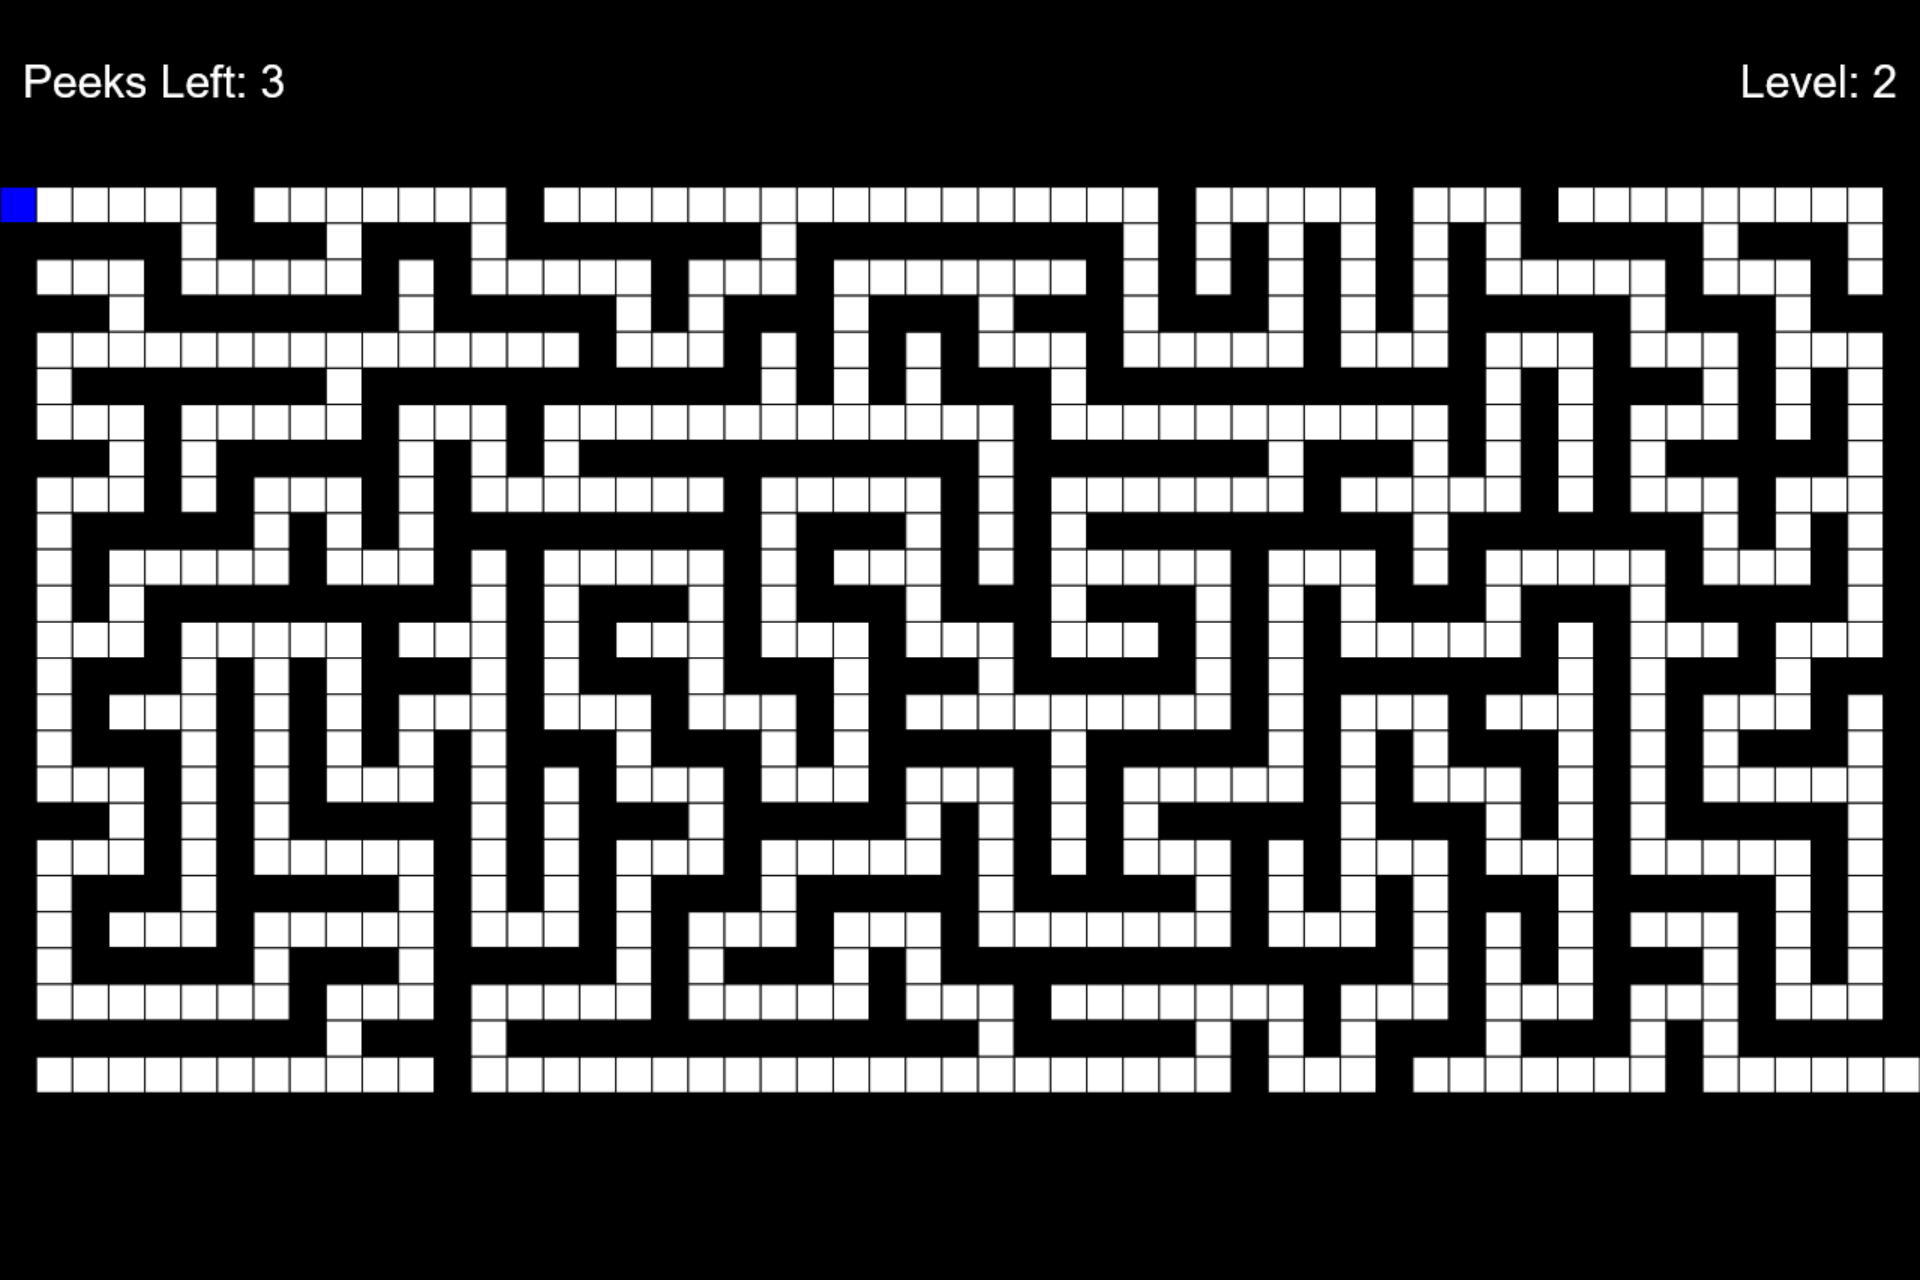
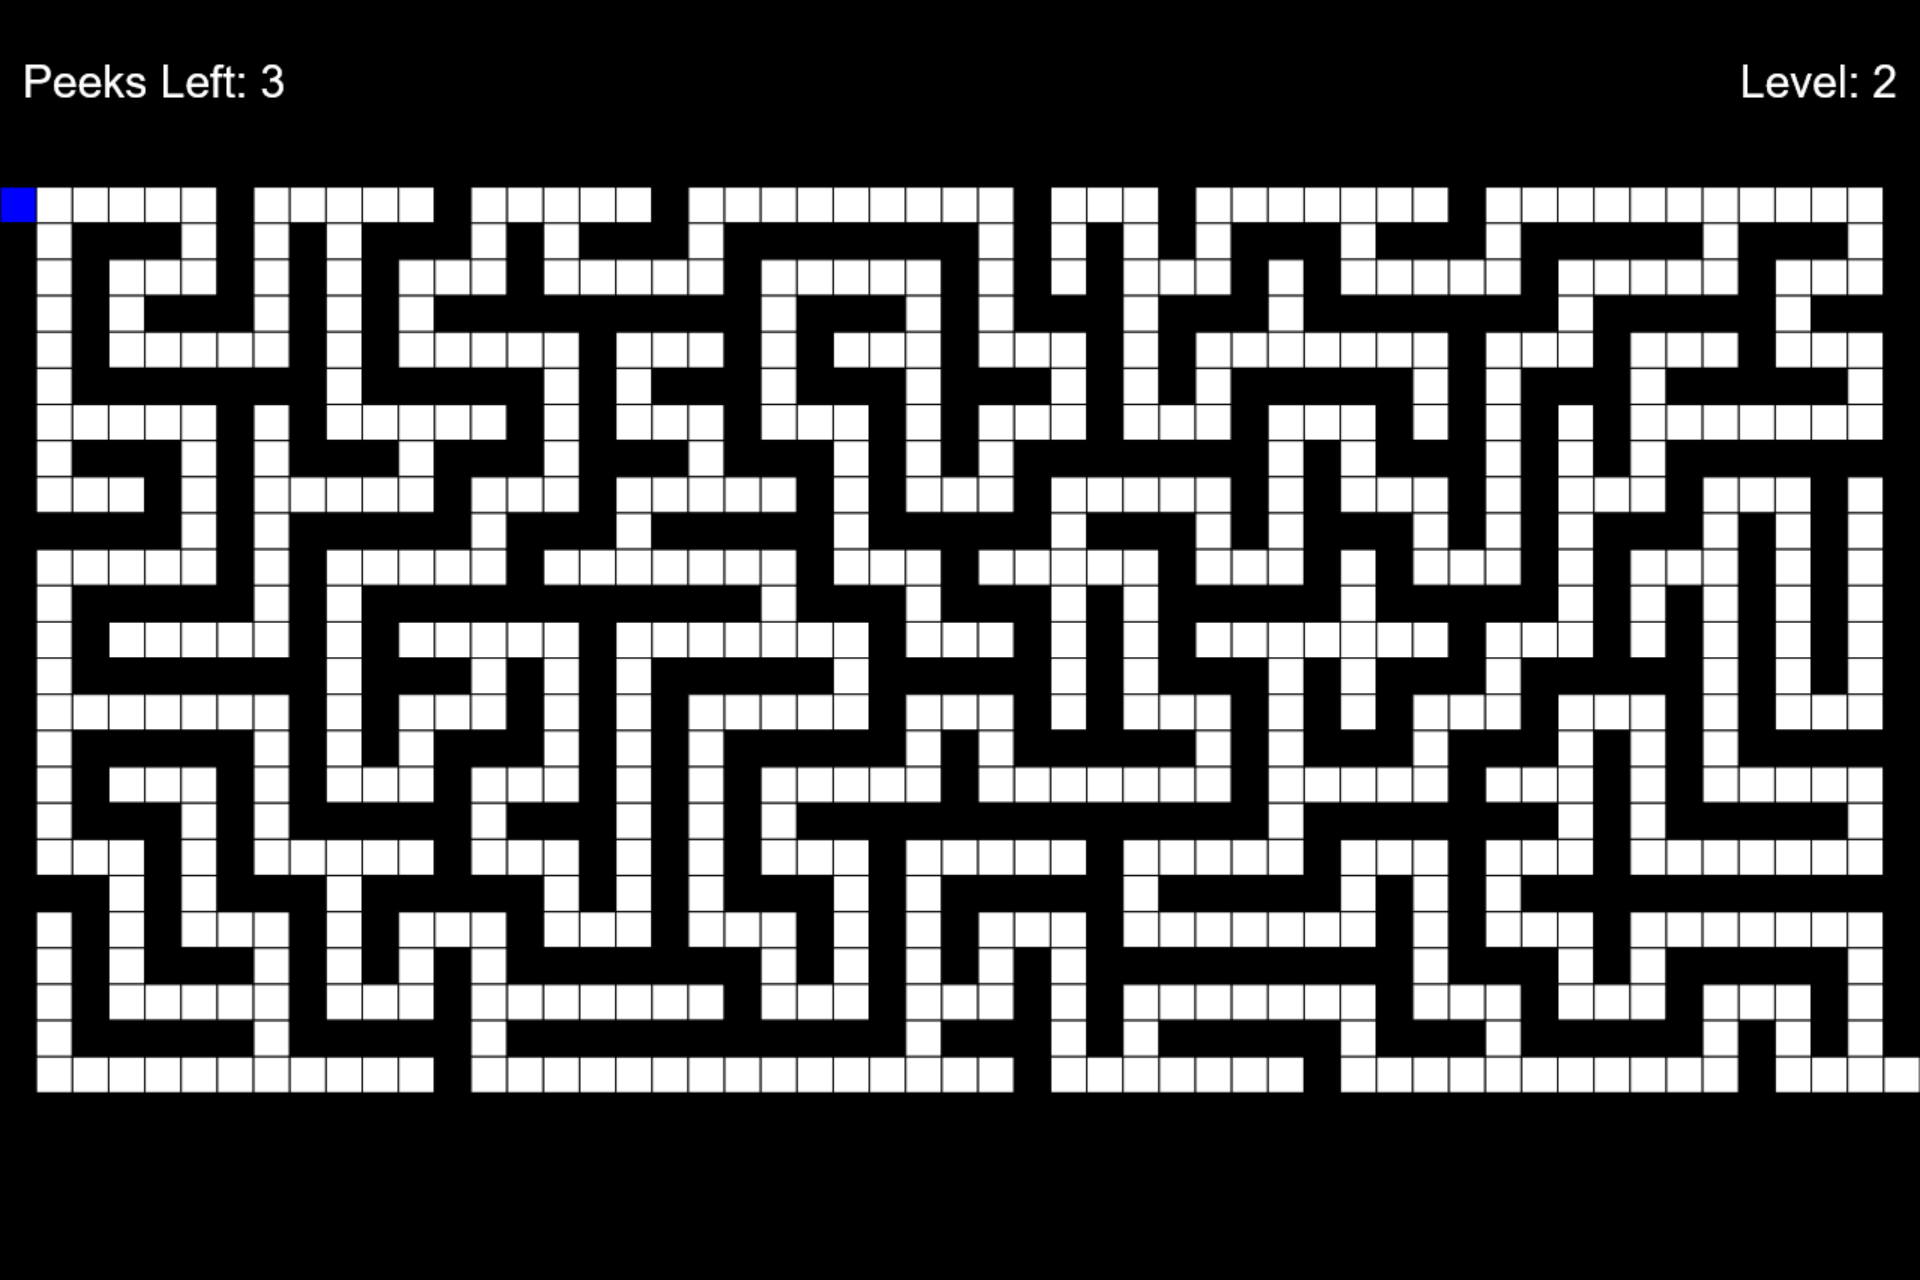
Changed Maze Game algorithm, minor appearance changes to rest of website

diff --git a/DMS110_Projects.html b/DMS110_Projects.html
@@ -34,7 +34,7 @@
 						<li><a href="DMS 110/HW 5 - For-Loop/mydocument.html">HW 5 - For-Loop</a><br><img src="Images/For-Loop.PNG" alt="For-Loop"></li>
 						<li><a href="DMS 110/HW 6 - Patterns/mydocument.html">HW 6 - Patterns</a><br><img src="Images/Patterns.PNG" alt="Patterns"></li>
 						<li><a href="DMS 110/HW 7 - Arrays/mydocument.html">HW 7 - Arrays</a><br><img src="Images/Arrays.PNG" alt="Arrays"></li>
-						<li><div id="linkFont">HW 8 - HTML Assignments Page</div><br>This Page!</li>
+						<li><div id="linkFont">HW 8 - HTML Assignments Page (This Page!)</div><br><img src="Images/Assignments Page.PNG" alt="Assignments"></li>
 						<li class="project disableImgLink"><a href="DMS 110/Midterm/mydocument.html">Midterm Project</a><br><img src="Images/Midterm.PNG" alt="Midterm"></li>
 						<li class="project disableImgLink"><a href="DMS 110/Final/Play.html">Final Project</a><br><img src="Images/Final.PNG" alt="Final"></li>
 					</ul>

diff --git a/DMS 110/Final/Code/canvastemplate.js b/DMS 110/Final/Code/canvastemplate.js
@@ -392,7 +392,7 @@ function genMaze(w,h) {
 			mazeSetup[i][j] = false;
 		}
 	}
-	setPath(0,0);
+	setPath(Math.floor(mazeSetup.length/2),Math.floor(mazeSetup[0].length/2));
 	//Create border around maze:
 	maze.push(new Array(width));
 	for(var i = 0; i < maze[maze.length-1].length; i++) {
@@ -444,7 +444,7 @@ function setPath(r,c) {
 	mazeSetup[r][c] = true;
 	var temp = findMoves(r,c);
 	if(temp.length == 0) {
-		if(r != 0 || c != 0) {
+		if(r != Math.floor(mazeSetup.length/2) || c != Math.floor(mazeSetup[0].length/2)) {
 			maze[r*2+1][c*2] = 255;
 			while(path.length > 0) {
 				if(findMoves(path[path.length-1][0],path[path.length-1][1]).length != 0) {

diff --git a/projects.html b/projects.html
@@ -111,7 +111,7 @@
 					<h3>About:</h3>
 					<p>
 						This program is a game I created for my DMS 110 Midterm Project. For this
-						project, I decided to model my game after a brick breaking game, one in which
+						project, I decided to model my game after a brick breaking game in which
 						there is a platform at the bottom of the screen, rows of blocks at the top
 						of the screen, and a ball bouncing between them. For full instructions on how
 						to play the game, please refer to the in-game instructions. Note, a link to

diff --git a/index.html b/index.html
@@ -44,8 +44,8 @@
 				<h2>About Me:</h2>
 				<p>
 					My name is Nicholas Shaffer and I am from Clarence Center, New York. I graduated
-					from Clarence Senior High School in 2016, and I am now attending the University at
-					Buffalo. Here, I hope to further my education in computer science.
+					from Clarence Senior High School in 2016 and am now attending the University at
+					Buffalo, where I hope to further my education in computer science.
 				</p>
 			</div>
 		<!-- </div> -->
